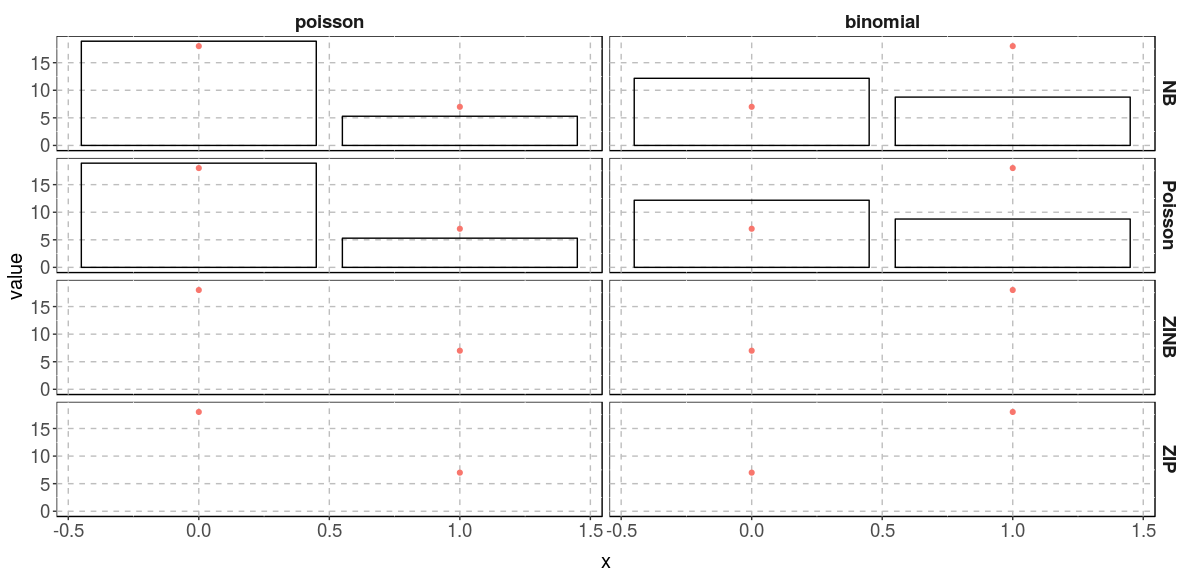
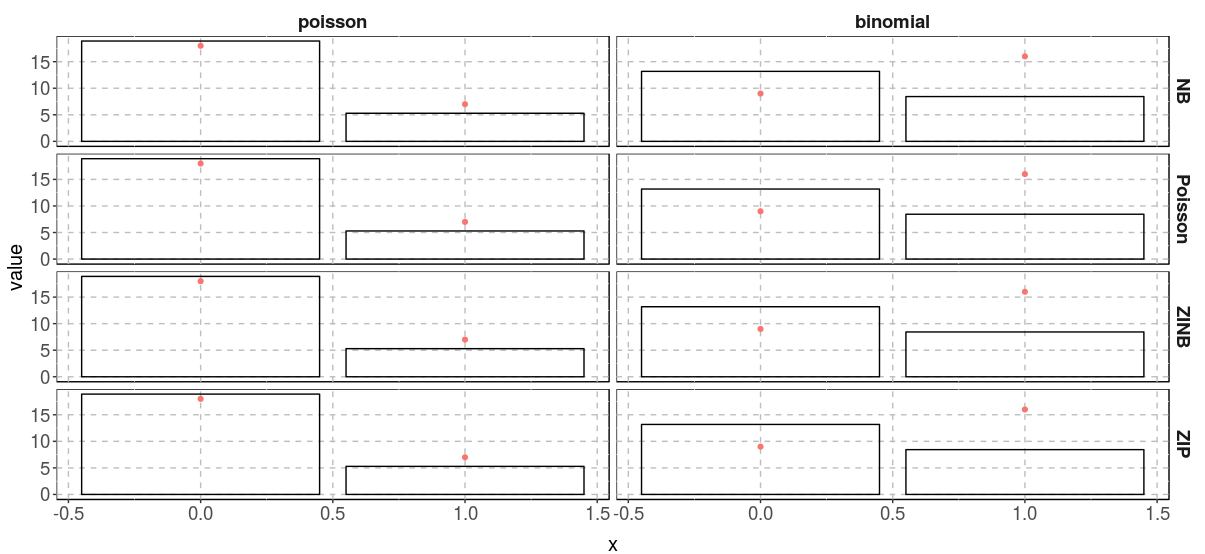
.

diff --git a/Chilmoniuk.tex b/Chilmoniuk.tex
@@ -190,14 +190,14 @@ $poissonpois$model
 $binomialpois
 $binomialpois$coefficients
 lambda 
-  0.72 
+  0.64 
 
 $binomialpois$confint
            lower    upper
-lambda 0.4364839 1.105632
+lambda 0.3753717 1.006709
 
 $binomialpois$BIC
-[1] 51.04502
+[1] 49.50006
 
 $binomialpois$model
 [1] "pois"
@@ -218,13 +218,13 @@ cmp <- compare_fit(df, fitlist = fit_counts(df, model = "all"))
       count   model x  n     value
 1   poisson Poisson 0 18 18.894594
 2   poisson Poisson 1  7  5.290486
-3   poisson     ZIP 0 18        NA
-4   poisson     ZIP 1  7        NA
+3   poisson     ZIP 0 18 18.894681
+4   poisson     ZIP 1  7  5.290388
 ...
-13 binomial      NB 0  7 12.168873
-14 binomial      NB 1 18  8.761455
-15 binomial    ZINB 0  7        NA
-16 binomial    ZINB 1 18        NA
+13 binomial      NB 0  9 13.182392
+14 binomial      NB 1 16  8.436568
+15 binomial    ZINB 0  9 13.182335
+16 binomial    ZINB 1 16  8.436642
 \end{example}
 
     \item \textit{plot\_fitcmp} - creates plot from compare\_fit results. The bar charts represent theoretical counts depending on the chosen distribution. Red dots describe the real number of counts.
@@ -232,7 +232,7 @@ cmp <- compare_fit(df, fitlist = fit_counts(df, model = "all"))
 {\bfseries
 \begin{example}
 df <- data.frame(poisson = rpois(25, 0.3), binomial = rbinom(25, 1, 0.8))
-cmp <- compare_fit(df, fitlist = fit_counts(df, model = "all"))
+cmp <- compare_fit(df, fitlist = fit_counts(df, model = "all")) >>>>>[WARNINGS]<<<<<
 plot_fitcmp(cmp)
 \end{example}
 }
@@ -248,22 +248,24 @@ plot_fitcmp(cmp)
 {\bfseries
 \begin{example}
 df <- data.frame(poisson = rpois(25, 0.3), binomial = rbinom(25, 1, 0.8))
-fc <- fit_counts(df, model = "all") 
+fc <- fit_counts(df, model = "all") >>>>>[WARNINGS]<<<<<
 summary_fitlist(fc) 
 \end{example}
 }
-
+% \footnotesize
+\scriptsize{
 \begin{example}
-                 count lambda     lower     upper      BIC     theta  r   model
-poisson_pois   poisson   0.28 0.1203040 0.5414518 35.04040        NA NA Poisson
-binomial_pois binomial   0.72 0.4364839 1.1056323 51.04502        NA NA Poisson
-poisson_zip    poisson     NA        NA        NA       NA        NA NA     ZIP
-binomial_zip  binomial     NA        NA        NA       NA        NA NA     ZIP
-poisson_nb     poisson   0.28 0.1203060 0.5414187 38.25952  7869.431 NA      NB
-binomial_nb   binomial   0.72 0.4364790 1.1056475 54.26417 47031.937 NA      NB
-poisson_zinb   poisson     NA        NA        NA       NA        NA NA    ZINB
-binomial_zinb binomial     NA        NA        NA       NA        NA NA    ZINB
+                 count    lambda     lower     upper      BIC      theta            r   model
+poisson_pois   poisson 0.2800000 0.1203040 0.5414518 35.04040         NA           NA Poisson
+binomial_pois binomial 0.6400000 0.3753717 1.0067089 49.50006         NA           NA Poisson
+poisson_zip    poisson 0.2800081 0.1334780 0.5873969 38.25936         NA 3.943333e-05     ZIP
+binomial_zip  binomial 0.6400005 0.3920834 1.0446771 52.71905         NA 6.847516e-06     ZIP
+poisson_nb     poisson 0.2800000 0.1203060 0.5414187 38.25952   7869.428           NA      NB
+binomial_nb   binomial 0.6400000 0.3753665 1.0067211 52.71925  33192.118           NA      NB
+poisson_zinb   poisson 0.2800036 0.1334826 0.5873575 41.47824  32338.764 1.483243e-05    ZINB
+binomial_zinb binomial 0.6400021 0.3920851 1.0446781 55.93792 191379.213 3.231081e-06    ZINB
 \end{example}
+}
 
 \end{itemize}
 
